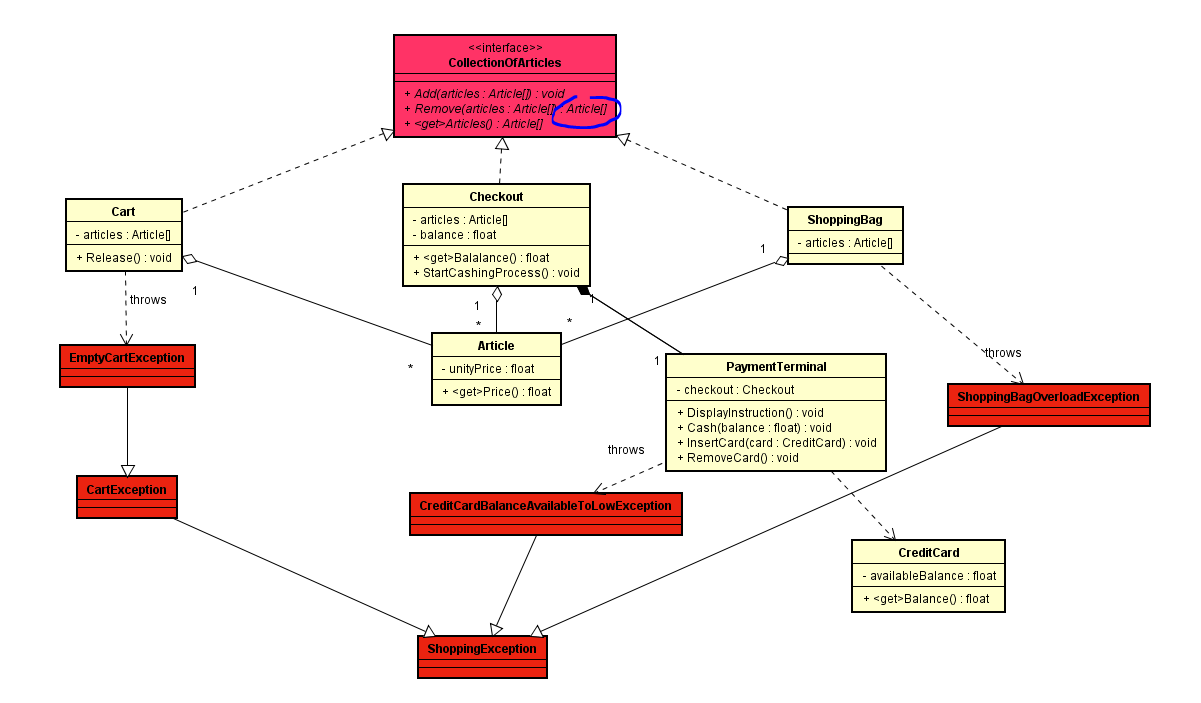
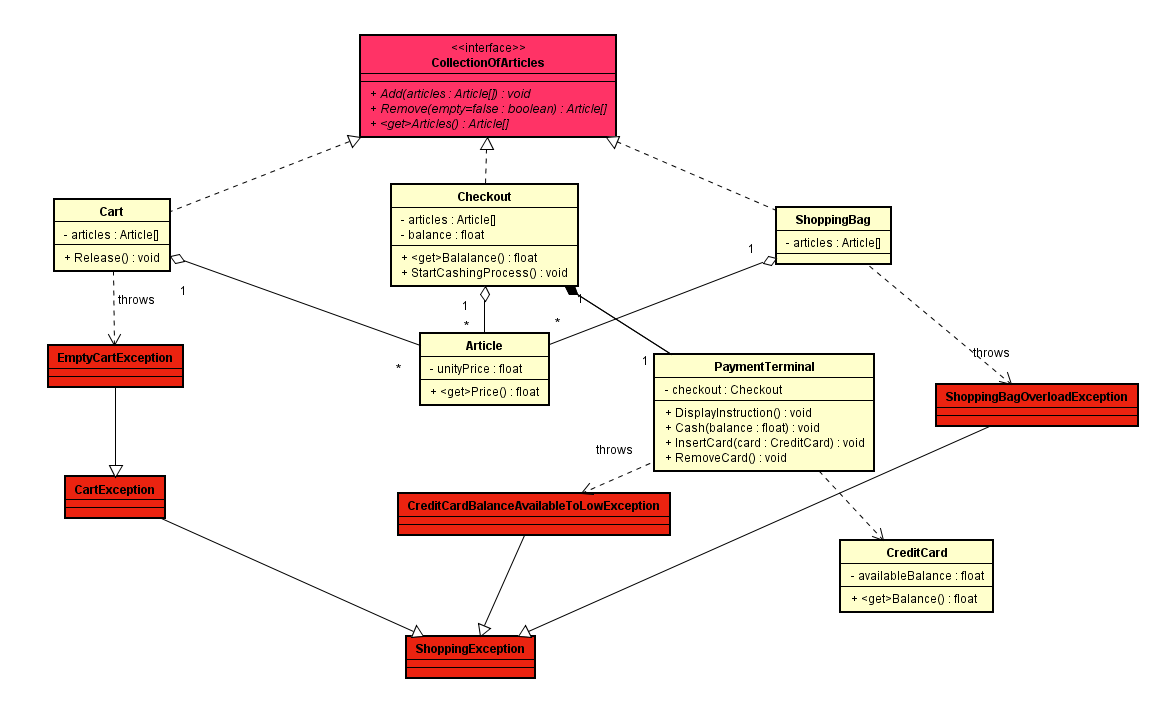
Bug fix on test and UML Update

diff --git a/TestShopping/TestCart.cs b/TestShopping/TestCart.cs
@@ -44,7 +44,6 @@ namespace TestShopping
             actualArticles = _cart.Remove();
 
             //then
-            Assert.AreEqual(expectedArticles.Count(), actualArticles.Count());
             Assert.AreEqual(amountOfArticlesToAdd-1, _cart.Articles.Count());
         }
 
